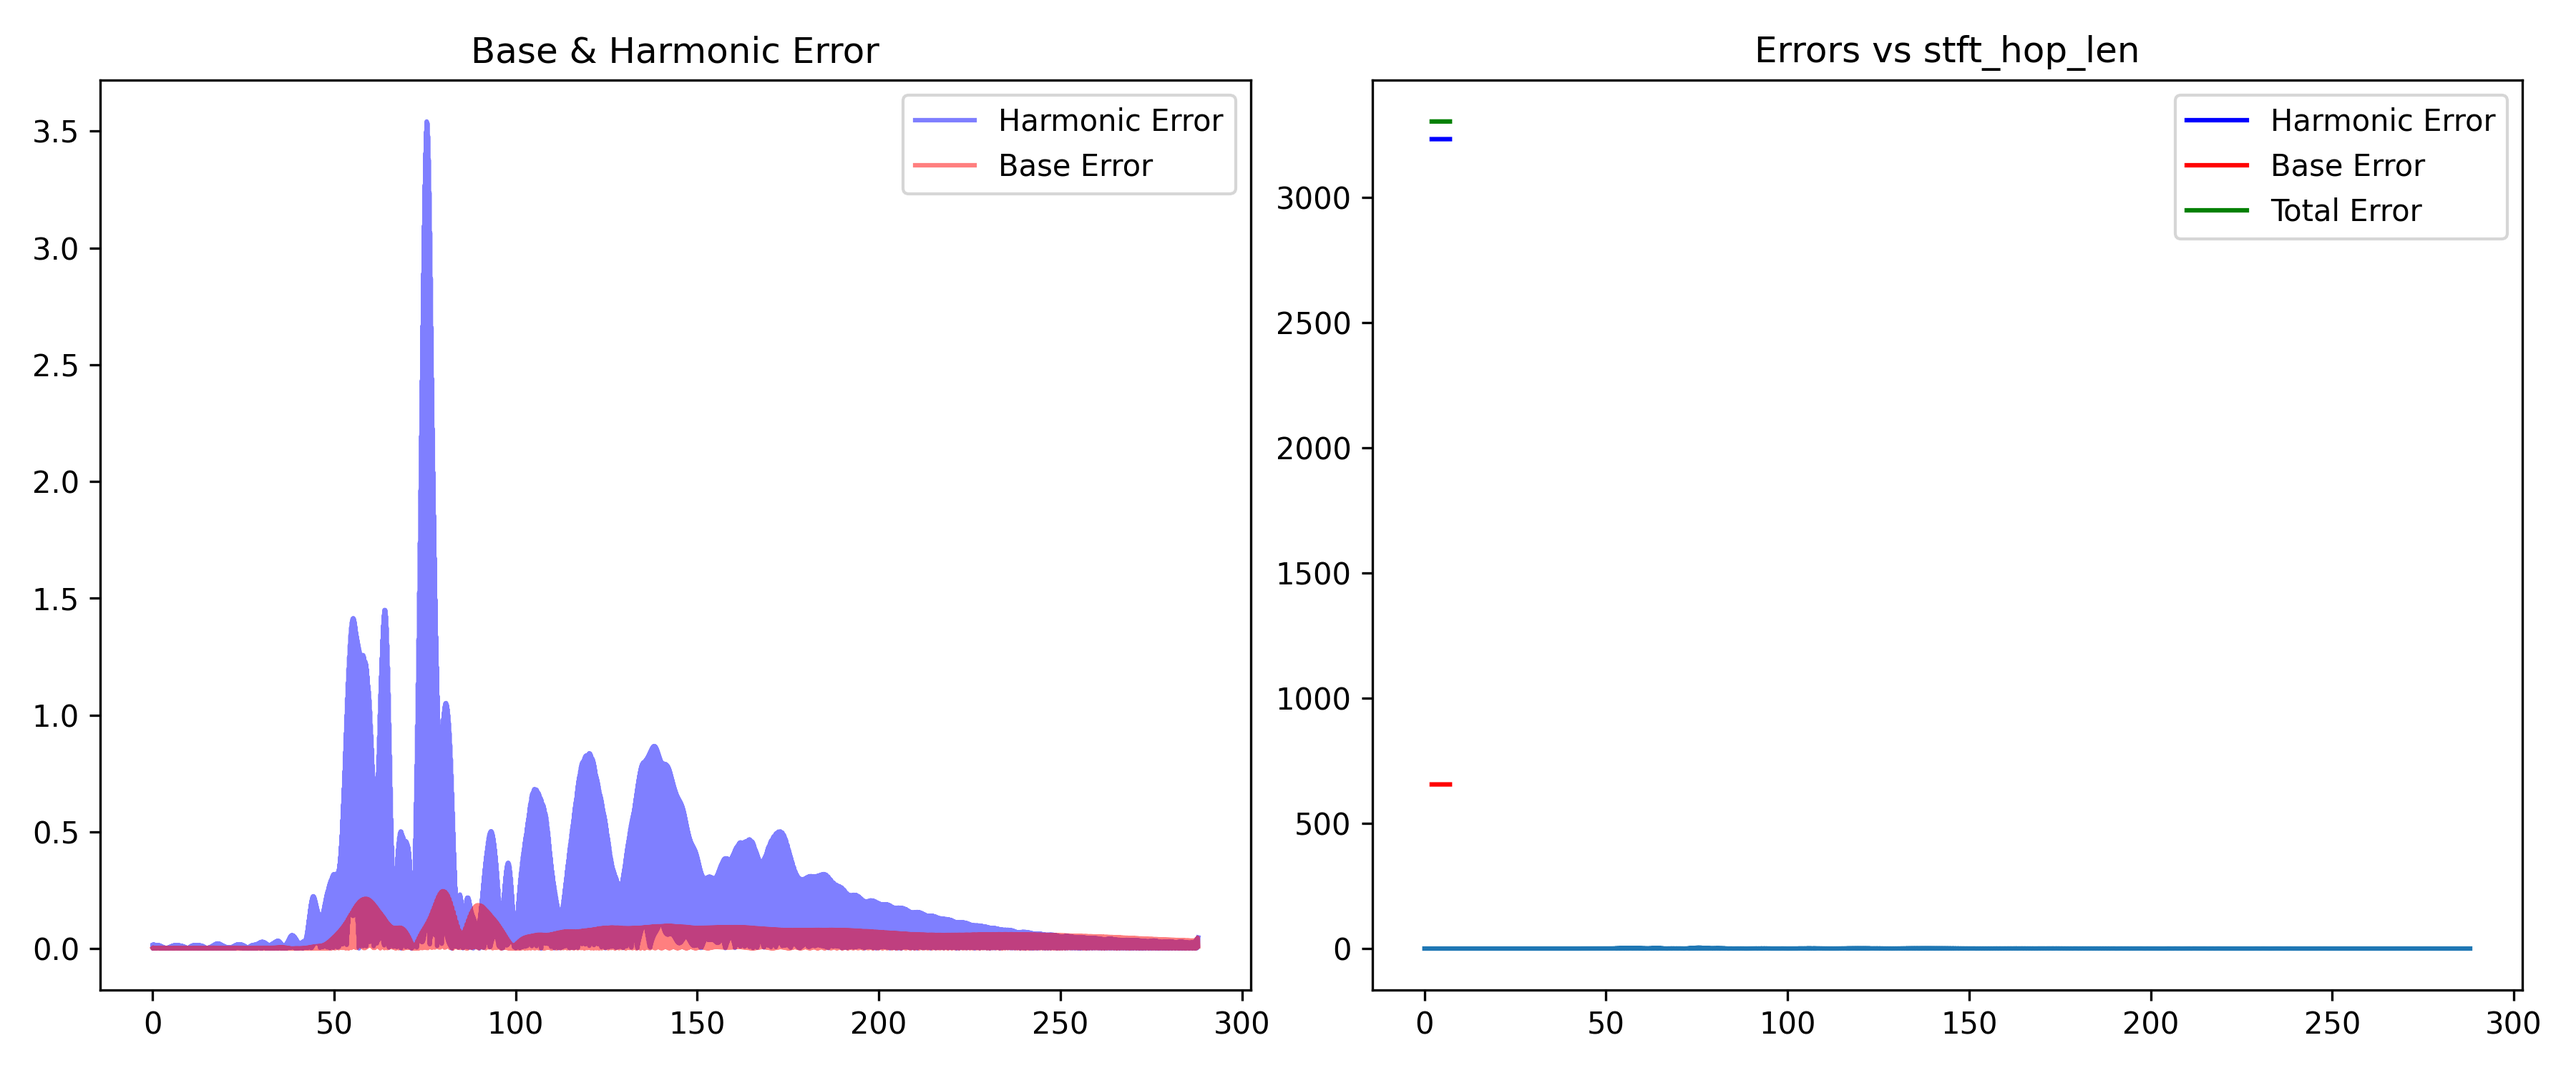
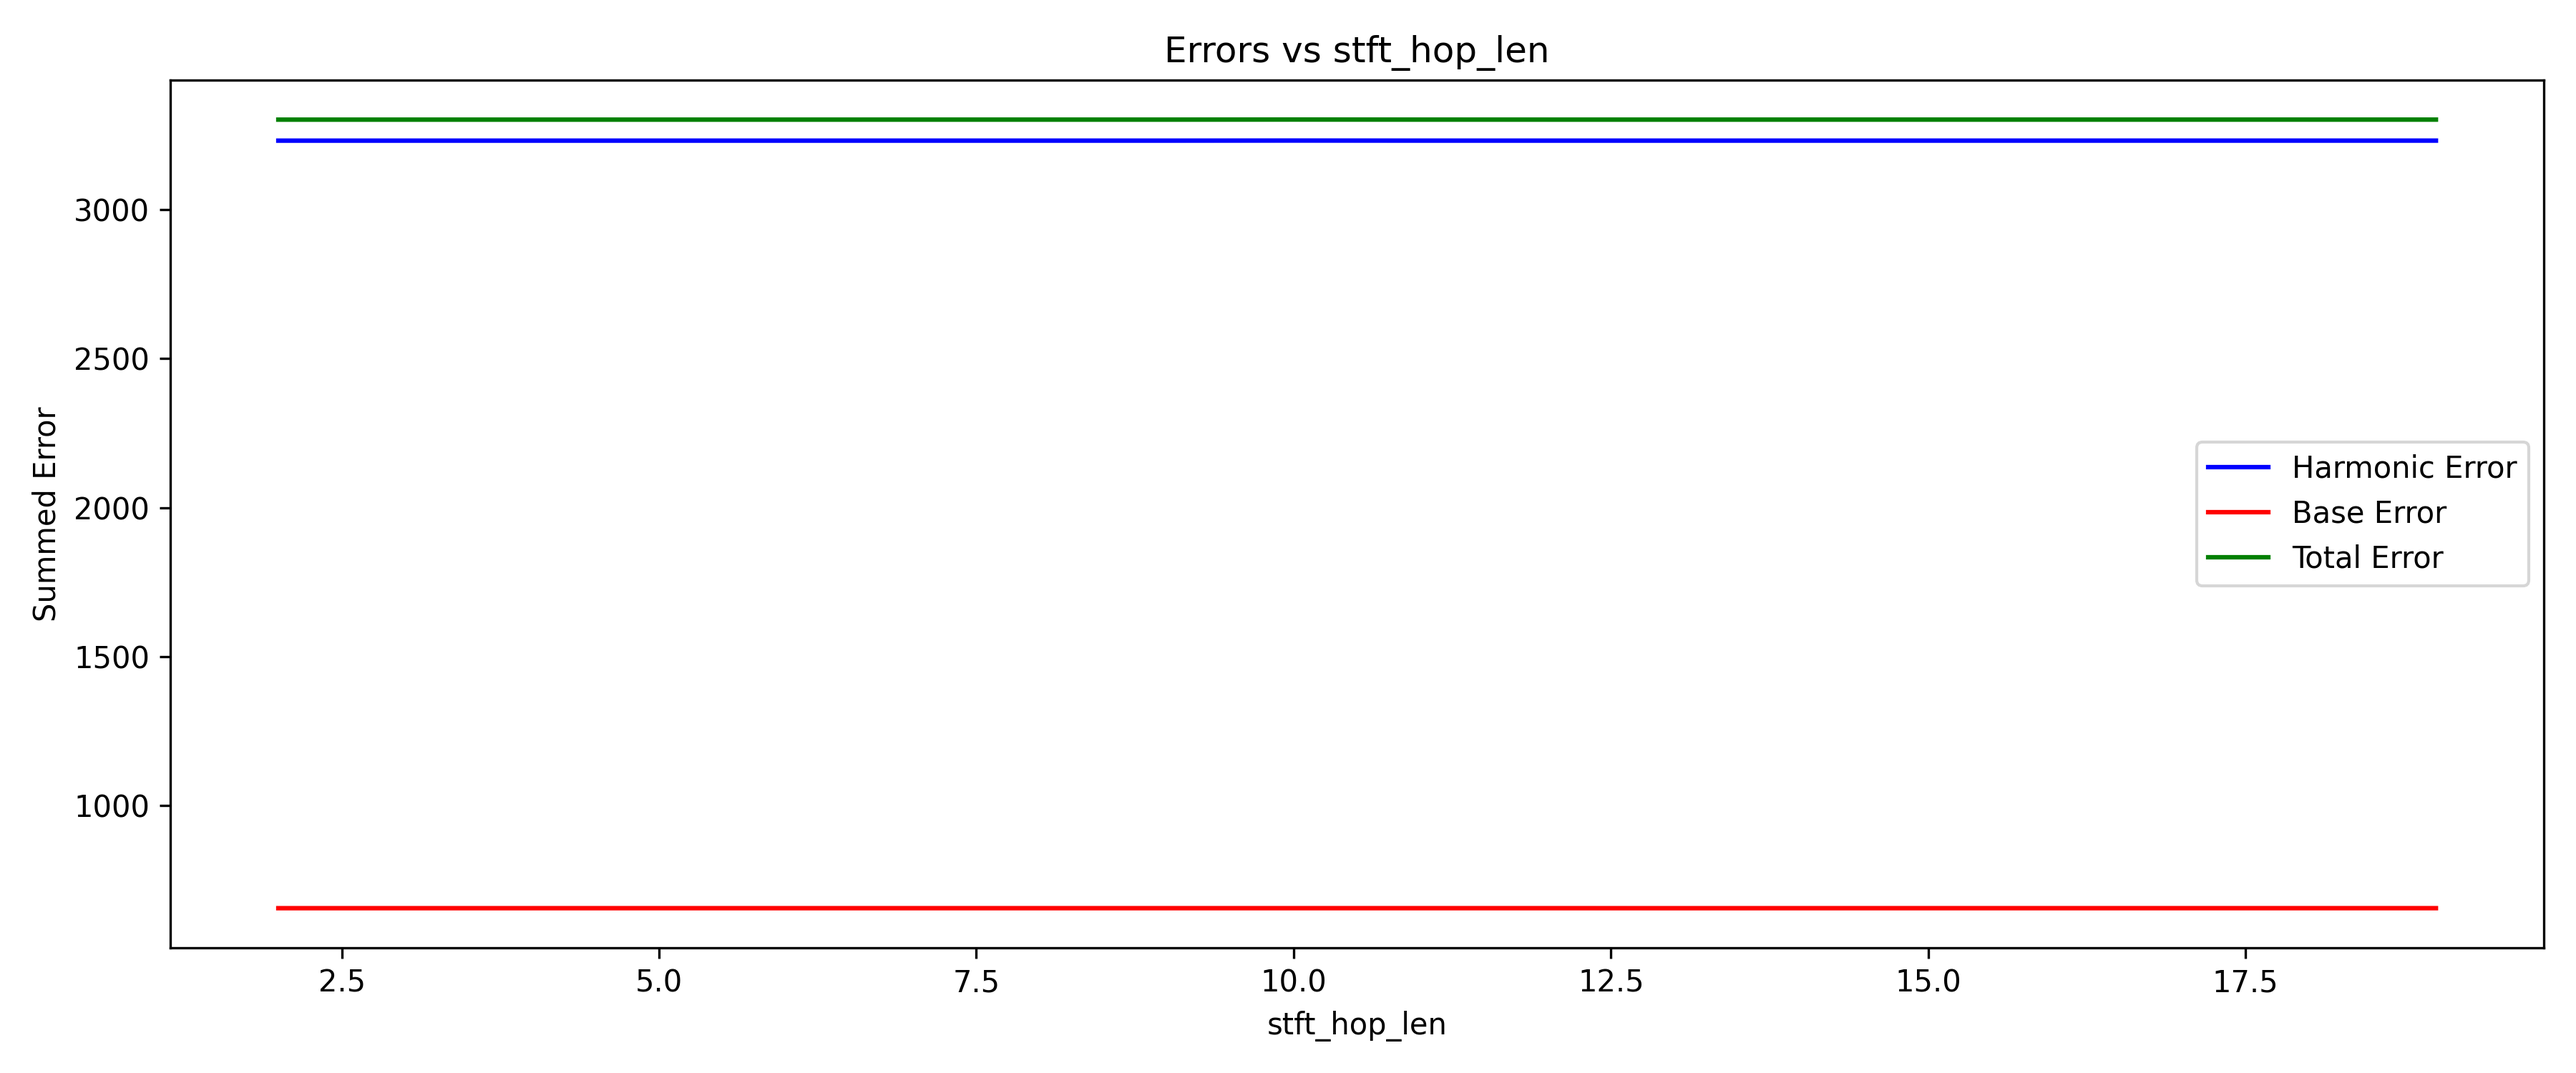
add_signal

diff --git a/hyperparameter_stft.py b/hyperparameter_stft.py
@@ -31,7 +31,7 @@ from transforms import SST_v2_processing
 
 # --- signal construction (mirrors despair.py) -------------------------------
 noise_level = 0     # 0 = clean, 1.5 = 150% noise
-beta        = 9            # non-linearity parameter
+beta        = 6            # non-linearity parameter
 
 A1_mode = "S2 Propagated signal (nm)"   # base harmonic mode for β
 A2_mode = "S4 Propagated signal (nm)"   # second harmonic mode for β
@@ -39,23 +39,8 @@ A2_mode = "S4 Propagated signal (nm)"   # second harmonic mode for β
 dataset_base      = "Data/In-plane_TemporalResponse@7.9866MHzmm@200mm.xlsx"
 dataset_harmonic   = "Data/In-plane_A2_TemporalResponse@15.963MHzmm@200mm.xlsx"
 
-modes_base = [
-    "S0 Propagated signal (nm)", "S1 Propagated signal (nm)",
-    "S2 Propagated signal (nm)", "S3 Propagated signal (nm)",
-    "A0 Propagated signal (nm)", "A1 Propagated signal (nm)",
-    "A2 Propagated signal (nm)", "A3 Propagated signal (nm)",
-    "A4 Propagated signal (nm)",
-]
-modes_harmonic = [
-    "S0 Propagated signal (nm)", "S1 Propagated signal (nm)",
-    "S2 Propagated signal (nm)", "S3 Propagated signal (nm)",
-    "S4 Propagated signal (nm)", "S5 Propagated signal (nm)",
-    "S6 Propagated signal (nm)", "S7 Propagated signal (nm)",
-    "S8 Propagated signal (nm)", "A0 Propagated signal (nm)",
-    "A1 Propagated signal (nm)", "A2 Propagated signal (nm)",
-    "A3 Propagated signal (nm)", "A4 Propagated signal (nm)",
-    "A5 Propagated signal (nm)", "A7 Propagated signal (nm)",
-]
+modes_base = ["S2 Propagated signal (nm)","A1 Propagated signal (nm)","A4 Propagated signal (nm)"]
+modes_harmonic = ["S2 Propagated signal (nm)", "S4 Propagated signal (nm)", "A1 Propagated signal (nm)","A4 Propagated signal (nm)"]
 
 # --- time-frequency analysis -----------------------------------------------
 f_min_analyse = 1.0e6      # Hz — lower bound for TF display
@@ -183,23 +168,24 @@ def _peak_snr(reference, recon):
         snr = 10 * np.log10(np.var(reference) / (np.var(noise) + 1e-30))
     return snr
 
-def get_residuals(r_h,r_b,og_h,og_b):
+def get_residuals(r_h,r_b,og_h,og_b,plot=False):
     og_full = og_h+og_b
     r_full = r_h+r_b 
     h_error = abs(r_h-og_h)
     b_error = abs(r_b-og_b)
     full_error = abs(r_full-og_full)
 
-    fig,ax = plt.subplots(1,2,figsize=(12,5))
-    ax[0].plot(t,h_error,color="blue",alpha=0.5,label='Harmonic Error')
-    ax[0].plot(t,b_error,color='red',alpha=0.5,label='Base Error')
-    ax[0].set_title("Base & Harmonic Error")
-    ax[0].legend()
-    ax[1].plot(t, full_error)
-    ax[1].set_title("Total Error")
+    if plot: 
+        fig,ax = plt.subplots(1,2,figsize=(12,5))
+        ax[0].plot(t,h_error,color="blue",alpha=0.5,label='Harmonic Error')
+        ax[0].plot(t,b_error,color='red',alpha=0.5,label='Base Error')
+        ax[0].set_title("Base & Harmonic Error")
+        ax[0].legend()
+        ax[1].plot(t, full_error)
+        ax[1].set_title("Total Error")
 
-    plt.tight_layout()
-    plt.savefig("plots/abs_errors.png", dpi=300)
+        plt.tight_layout()
+        plt.savefig("plots/abs_errors.png", dpi=300)
     return h_error,b_error,full_error
 
 def process_error(recon_harmonic,recon_base):
@@ -222,12 +208,16 @@ def process_error(recon_harmonic,recon_base):
 # Execute
 # =============================================================
 
+#plot signal
+a,b = stft_sst(t,signal,f_min_analyse,f_max_analyse,stft_win_len,stft_hop_len,stft_n_fft,stft_gamma,band_min_base,band_max_base,log_scale,gt_base,gt_harmonic,plot=True)
+
+
 #options: stft_win_len, stft_hop_len, stft_n_fft
-parameter = "stft_hop_len"
+parameter = "lol"
 #options: win_len = 100, hop_len = 2, n_fft = 500
-eval_min = 2
+eval_min = 500
 #options: win_len = 150, hop_len = 8, n_fft = 550
-eval_max = 8
+eval_max = 550
 
 #stft_win_len = 128     # samples
 #stft_hop_len = 2
@@ -250,11 +240,73 @@ if parameter == "stft_hop_len":
         t_error_lst.append(sum_t_error)
         par.append(i)
 
+    plt.figure(figsize=(12, 5))
     plt.plot(par,h_error_lst,color="blue",label="Harmonic Error")
     plt.plot(par,b_error_lst,color="red",label="Base Error")
     plt.plot(par,t_error_lst,color="green",label="Total Error")
     plt.title(f"Errors vs {parameter}")
+    plt.xlabel(parameter)
+    plt.ylabel("Summed Error")
     plt.legend()
+    plt.tight_layout()
+    plt.savefig(f"plots/errors_{parameter}.png", dpi=300)
+
+
+if parameter == "stft_win_len":
+    h_error_lst = []
+    b_error_lst = []
+    t_error_lst = []
+    par = []
+    for i in range(eval_min,eval_max):
+        recon_harmonic_stft,recon_base_stft = stft_sst(
+            t,signal,f_min_analyse,f_max_analyse,
+            i,stft_hop_len,stft_n_fft,
+            stft_gamma,band_min_base,band_max_base,
+            log_scale,gt_base,gt_harmonic,plot=False)
+        sum_h_error,sum_b_error,sum_t_error = process_error(recon_harmonic_stft,recon_base_stft)
+        h_error_lst.append(sum_h_error)
+        b_error_lst.append(sum_b_error)
+        t_error_lst.append(sum_t_error)
+        par.append(i)
+
+    plt.figure(figsize=(12, 5))
+    plt.plot(par,h_error_lst,color="blue",label="Harmonic Error")
+    plt.plot(par,b_error_lst,color="red",label="Base Error")
+    plt.plot(par,t_error_lst,color="green",label="Total Error")
+    plt.title(f"Errors vs {parameter}")
+    plt.xlabel(parameter)
+    plt.ylabel("Summed Error")
+    plt.legend()
+    plt.tight_layout()
+    plt.savefig(f"plots/errors_{parameter}.png", dpi=300)
+
+
+if parameter == "stft_n_fft":
+    h_error_lst = []
+    b_error_lst = []
+    t_error_lst = []
+    par = []
+    for i in range(eval_min,eval_max):
+        recon_harmonic_stft,recon_base_stft = stft_sst(
+            t,signal,f_min_analyse,f_max_analyse,
+            stft_win_len,stft_hop_len,i,
+            stft_gamma,band_min_base,band_max_base,
+            log_scale,gt_base,gt_harmonic,plot=False)
+        sum_h_error,sum_b_error,sum_t_error = process_error(recon_harmonic_stft,recon_base_stft)
+        h_error_lst.append(sum_h_error)
+        b_error_lst.append(sum_b_error)
+        t_error_lst.append(sum_t_error)
+        par.append(i)
+
+    plt.figure(figsize=(12, 5))
+    plt.plot(par,h_error_lst,color="blue",label="Harmonic Error")
+    plt.plot(par,b_error_lst,color="red",label="Base Error")
+    plt.plot(par,t_error_lst,color="green",label="Total Error")
+    plt.title(f"Errors vs {parameter}")
+    plt.xlabel(parameter)
+    plt.ylabel("Summed Error")
+    plt.legend()
+    plt.tight_layout()
     plt.savefig(f"plots/errors_{parameter}.png", dpi=300)
 
 print("\nDone — all plots saved to plots/")
